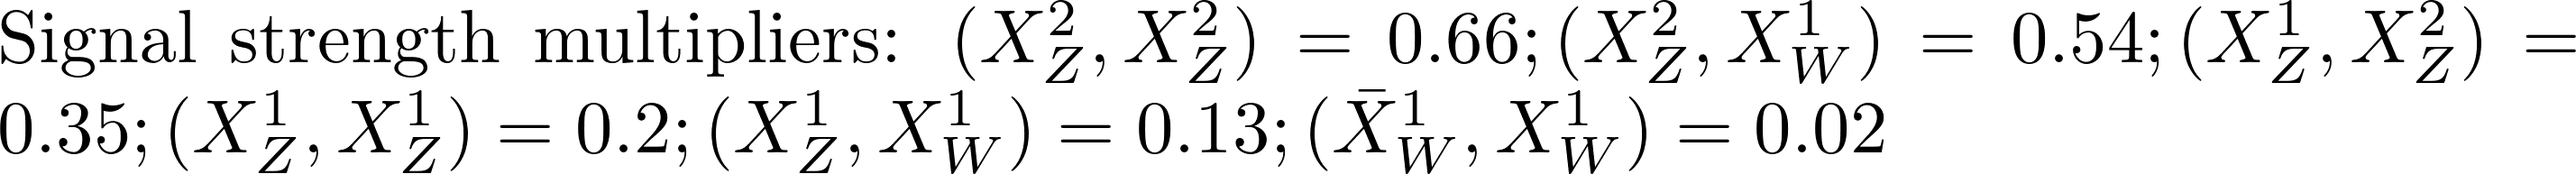
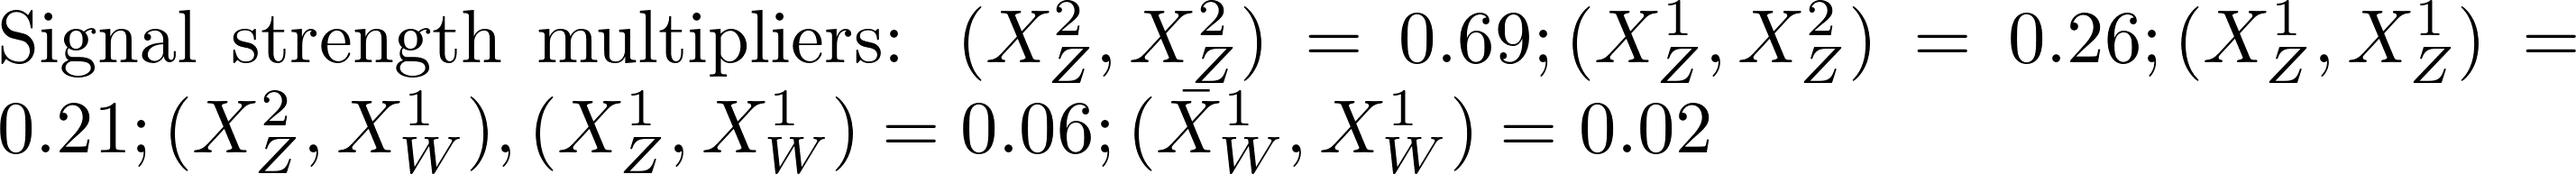
automated update by plotHiscore.py to rundir2_320:     K=5.409 TL=15.08 walkerid=219

diff --git a/protomodels/rundir2_320/rawnumbers.html b/protomodels/rundir2_320/rawnumbers.html
@@ -1,15 +1,20 @@
 <table>
 <tr><th>Analysis Name</th><th>Type</th><th>Dataset</th><th>Topos</th><th>Observed</th><th>Expected</th><th>Approx &sigma;</th><th>Particles</th>
 </tr>
-<tr><td><a href=https://atlas.web.cern.ch/Atlas/GROUPS/PHYSICS/PAPERS/EXOT-2018-06/>ATLAS-EXOT-2018-06</a></td><td>em</td> <td>EM10</td><td>TChiISR, TChiWISRll, TChiWWISRqq, TChiZISRll, TChiZISRqq</td><td>413</td><td>359.00 +/- 10.00</td><td style="text-align:right">2.5 &sigma;</td><td style="text-align:right">X<sup>1</sup><sub>W</sub>, X<sup>2</sup><sub>Z</sub>, X<sup>1</sup><sub>Z</sub></td></tr>
-<tr><td><a href=http://cms-results.web.cern.ch/cms-results/public-results/publications/EXO-20-004/>CMS-EXO-20-004</a></td><td>comb</td> <td>-</td><td>TChiISR, TChiWISRll, TChiWWISRqq, TChiZISRll, TChiZISRqq</td><td> 2e+02 fb </td><td> 2e+02 fb</td><td style="text-align:right">2.4 &sigma;</td><td style="text-align:right">X<sup>1</sup><sub>W</sub>, X<sup>2</sup><sub>Z</sub>, X<sup>1</sup><sub>Z</sub></td></tr>
-<tr><td><a href=http://cms-results.web.cern.ch/cms-results/public-results/publications/SUS-16-039/index.html>CMS-SUS-16-039-agg</a></td><td>comb</td> <td>-</td><td>TChiWZoff</td><td> 2 fb </td><td> 0.8 fb</td><td style="text-align:right">1.9 &sigma;</td><td style="text-align:right">X<sup>1</sup><sub>W</sub>, X<sup>2</sup><sub>Z</sub>, X<sup>1</sup><sub>Z</sub></td></tr>
-<tr><td><a href=http://cms-results.web.cern.ch/cms-results/public-results/publications/SUS-16-048/index.html>CMS-SUS-16-048</a></td><td>comb</td> <td>-</td><td>TChiWZoff</td><td> 1 fb </td><td> 0.9 fb</td><td style="text-align:right">0.3 &sigma;</td><td style="text-align:right">X<sup>2</sup><sub>Z</sub>, X<sup>1</sup><sub>Z</sub></td></tr>
+<tr><td><a href=https://atlas.web.cern.ch/Atlas/GROUPS/PHYSICS/PAPERS/SUSY-2018-16/>ATLAS-SUSY-2018-16-hino</a></td><td>em</td> <td>SR_ewk_2l_med</td><td>TChiZoff</td><td>170</td><td>112.40 +/- 12.60</td><td style="text-align:right">3.3 &sigma;</td><td style="text-align:right">X<sup>2</sup><sub>Z</sub>, X<sup>1</sup><sub>Z</sub></td></tr>
+<tr><td><a href=https://atlas.web.cern.ch/Atlas/GROUPS/PHYSICS/PAPERS/EXOT-2018-06/>ATLAS-EXOT-2018-06</a></td><td>em</td> <td>EM10</td><td>TChiISR, TChiWISRll, TChiWWISRqq, TChiZISRll, TChiZISRqq</td><td>413</td><td>359.00 +/- 10.00</td><td style="text-align:right">2.4 &sigma;</td><td style="text-align:right">X<sup>1</sup><sub>W</sub>, X<sup>2</sup><sub>Z</sub>, X<sup>1</sup><sub>Z</sub></td></tr>
+<tr><td><a href=http://cms-results.web.cern.ch/cms-results/public-results/publications/EXO-20-004/>CMS-EXO-20-004</a></td><td>comb</td> <td>-</td><td>TChiISR, TChiWISRll, TChiWWISRqq, TChiZISRll, TChiZISRqq</td><td> 9e+01 fb </td><td> 7e+01 fb</td><td style="text-align:right">2.2 &sigma;</td><td style="text-align:right">X<sup>1</sup><sub>W</sub>, X<sup>2</sup><sub>Z</sub>, X<sup>1</sup><sub>Z</sub></td></tr>
+<tr><td><a href=http://cms-results.web.cern.ch/cms-results/public-results/publications/SUS-16-039/index.html>CMS-SUS-16-039-agg</a></td><td>comb</td> <td>-</td><td>TChiWZoff</td><td> 2 fb </td><td> 1 fb</td><td style="text-align:right">0.0 &sigma;</td><td style="text-align:right">X<sup>1</sup><sub>W</sub>, X<sup>2</sup><sub>Z</sub>, X<sup>1</sup><sub>Z</sub></td></tr>
 <tr><td><a href=https://atlas.web.cern.ch/Atlas/GROUPS/PHYSICS/PAPERS/SUSY-2013-11/>ATLAS-SUSY-2013-11</a></td><td>em</td> <td>WWa-DF</td><td>TChiWWoff</td><td>70</td><td>73.60 +/- 7.90</td><td style="text-align:right">-0.3 &sigma;</td><td style="text-align:right">X<sup>1</sup><sub>W</sub>, X<sup>1</sup><sub>Z</sub></td></tr>
+<tr><td><a href=http://cms-results.web.cern.ch/cms-results/public-results/publications/SUS-16-048/index.html>CMS-SUS-16-048</a></td><td>comb</td> <td>-</td><td>TChiWZoff</td><td> 2 fb </td><td> 2 fb</td><td style="text-align:right">-0.5 &sigma;</td><td style="text-align:right">X<sup>2</sup><sub>Z</sub>, X<sup>1</sup><sub>Z</sub></td></tr>
 </table>
 <table style='color:grey'>
-<tr><th>Not in Best Combo</th><th>Type</th><th>Dataset</th><th>Topos</th><th>Observed</th><th>Expected</th><th>Approx &sigma;</th><th>Particles</th><tr><td><a href=https://atlas.web.cern.ch/Atlas/GROUPS/PHYSICS/PAPERS/SUSY-2013-02/>ATLAS-SUSY-2013-02</a></td><td>em</td> <td>SR4jlm</td><td>T1</td><td>2169</td><td>2120.00 +/- 110.00</td><td style="text-align:right">0.4 &sigma;</td><td style="text-align:right">X<sup>1</sup><sub>W</sub>, X<sup>1</sup><sub>Z</sub></td></tr>
-<tr><td><a href=https://atlas.web.cern.ch/Atlas/GROUPS/PHYSICS/PAPERS/SUSY-2013-02/>ATLAS-SUSY-2013-02</a></td><td>em</td> <td>SR4jl</td><td>T1</td><td>608</td><td>630.00 +/- 50.00</td><td style="text-align:right">-0.4 &sigma;</td><td style="text-align:right">X<sup>1</sup><sub>W</sub>, X<sup>1</sup><sub>Z</sub></td></tr>
-<tr><td><a href=https://atlas.web.cern.ch/Atlas/GROUPS/PHYSICS/PAPERS/SUSY-2013-02/>ATLAS-SUSY-2013-02</a></td><td>em</td> <td>SR2jl</td><td>T1</td><td>12315</td><td>13000.00 +/- 1000.00</td><td style="text-align:right">-0.7 &sigma;</td><td style="text-align:right">X<sup>1</sup><sub>W</sub>, X<sup>1</sup><sub>Z</sub></td></tr>
-<tr><td><a href=https://atlas.web.cern.ch/Atlas/GROUPS/PHYSICS/PAPERS/SUSY-2013-02/>ATLAS-SUSY-2013-02</a></td><td>em</td> <td>SR2jm</td><td>T1</td><td>715</td><td>760.00 +/- 50.00</td><td style="text-align:right">-0.8 &sigma;</td><td style="text-align:right">X<sup>1</sup><sub>W</sub>, X<sup>1</sup><sub>Z</sub></td></tr>
+<tr><th>Not in Best Combo</th><th>Type</th><th>Dataset</th><th>Topos</th><th>Observed</th><th>Expected</th><th>Approx &sigma;</th><th>Particles</th><tr><td><a href=https://atlas.web.cern.ch/Atlas/GROUPS/PHYSICS/PAPERS/SUSY-2013-02/>ATLAS-SUSY-2013-02</a></td><td>em</td> <td>SR6jl</td><td>T1</td><td>121</td><td>111.00 +/- 11.00</td><td style="text-align:right">0.6 &sigma;</td><td style="text-align:right">X<sup>1</sup><sub>W</sub>, X<sup>2</sup><sub>Z</sub>, X<sup>1</sup><sub>Z</sub></td></tr>
+<tr><td><a href=https://atlas.web.cern.ch/Atlas/GROUPS/PHYSICS/PAPERS/SUSY-2013-02/>ATLAS-SUSY-2013-02</a></td><td>em</td> <td>SR4jlm</td><td>T1</td><td>2169</td><td>2120.00 +/- 110.00</td><td style="text-align:right">0.4 &sigma;</td><td style="text-align:right">X<sup>1</sup><sub>W</sub>, X<sup>2</sup><sub>Z</sub>, X<sup>1</sup><sub>Z</sub></td></tr>
+<tr><td><a href=https://atlas.web.cern.ch/Atlas/GROUPS/PHYSICS/PAPERS/SUSY-2018-05/>ATLAS-SUSY-2018-05-ewk</a></td><td>comb</td> <td>-</td><td>TChiWZoff</td><td> 0.06 fb </td><td> 0.07 fb</td><td style="text-align:right">0.3 &sigma;</td><td style="text-align:right">X<sup>2</sup><sub>Z</sub>, X<sup>1</sup><sub>Z</sub></td></tr>
+<tr><td><a href=https://atlas.web.cern.ch/Atlas/GROUPS/PHYSICS/PAPERS/SUSY-2018-16/>ATLAS-SUSY-2018-16</a></td><td>comb</td> <td>-</td><td>TChiWZoff</td><td> 0.9 fb </td><td> 1 fb</td><td style="text-align:right">0.1 &sigma;</td><td style="text-align:right">X<sup>2</sup><sub>Z</sub>, X<sup>1</sup><sub>Z</sub></td></tr>
+<tr><td><a href=https://atlas.web.cern.ch/Atlas/GROUPS/PHYSICS/PAPERS/SUSY-2013-02/>ATLAS-SUSY-2013-02</a></td><td>em</td> <td>SR4jl</td><td>T1</td><td>608</td><td>630.00 +/- 50.00</td><td style="text-align:right">-0.4 &sigma;</td><td style="text-align:right">X<sup>1</sup><sub>W</sub>, X<sup>2</sup><sub>Z</sub>, X<sup>1</sup><sub>Z</sub></td></tr>
+<tr><td><a href=https://atlas.web.cern.ch/Atlas/GROUPS/PHYSICS/PAPERS/SUSY-2013-02/>ATLAS-SUSY-2013-02</a></td><td>em</td> <td>SR2jl</td><td>T1</td><td>12315</td><td>13000.00 +/- 1000.00</td><td style="text-align:right">-0.7 &sigma;</td><td style="text-align:right">X<sup>1</sup><sub>W</sub>, X<sup>2</sup><sub>Z</sub>, X<sup>1</sup><sub>Z</sub></td></tr>
+<tr><td><a href=https://atlas.web.cern.ch/Atlas/GROUPS/PHYSICS/PAPERS/SUSY-2013-02/>ATLAS-SUSY-2013-02</a></td><td>em</td> <td>SR2jm</td><td>T1</td><td>715</td><td>760.00 +/- 50.00</td><td style="text-align:right">-0.8 &sigma;</td><td style="text-align:right">X<sup>1</sup><sub>W</sub>, X<sup>2</sup><sub>Z</sub>, X<sup>1</sup><sub>Z</sub></td></tr>
+<tr><td><a href=http://cms-results.web.cern.ch/cms-results/public-results/publications/SUS-18-004/index.html>CMS-SUS-18-004-wbplus-agg</a></td><td>comb</td> <td>-</td><td>TChiWZoff</td><td> 0.3 fb </td><td> 0.3 fb</td><td style="text-align:right">-1.1 &sigma;</td><td style="text-align:right">X<sup>2</sup><sub>Z</sub>, X<sup>1</sup><sub>Z</sub></td></tr>
 </table>

diff --git a/protomodels/rundir2_320/index.html b/protomodels/rundir2_320/index.html
@@ -1,27 +1,27 @@
 <html>
 <body>
 <center>
-<table><td><h1>Current best protomodel: <i>K</i>=8.71, <i>TL</i>=18.61</h1><td><img height=60px src=https://smodels.github.io//protomodels/logos/protomodel_lego.png></table>
+<table><td><h1>Current best protomodel: <i>K</i>=5.41, <i>TL</i>=15.08</h1><td><img height=60px src=https://smodels.github.io//protomodels/logos/protomodel_lego.png></table>
 </center>
-<b><a href=./hiscore.slha>ProtoModel</a> <a href=./pmodel.dict>(dict)</a> produced with <a href=https://smodels.github.io//docs/Validation320>database v3.2.0</a>, allowed_extr 0.0 in walker 210 step 523.</b> <br>
+<b><a href=./hiscore.slha>ProtoModel</a> <a href=./pmodel.dict>(dict)</a> produced with <a href=https://smodels.github.io//docs/Validation320>database v3.2.0</a>, allowed_extr 0.0 in walker 219 step 523.</b> <br>
 <table width=80%>
 <tr><td>
-<br><b>Critics:</b> passed both critics<br>
+<br><b>Critics:</b> failed llhd-based critic (robs=4.228, rexp=5.832)<br>
 <br><b>UL Critic: 1/2 analyses exclude</b><br>
-ATLAS-EXOT-2018-06:EM5:: <span style='color: darkred;'>r<sub>obs</sub>=2.132, r<sub>exp</sub>=2.209</span><br>
-CMS-SUS-23-003:ul:: <span style='color: darkgreen;'>r<sub>obs</sub>=0.645, r<sub>exp</sub>=1.237</span><br>
-CMS-EXO-20-004:SR_2018_13:: <span style='color: darkgreen;'>r<sub>obs</sub>=0.457, r<sub>exp</sub>=0.615</span><br>
-<br><b>LLHD Critic:</b> ATLAS-EXOT-2018-06:EM5, CMS-EXO-20-004:matrix.cov, CMS-SUS-16-039-agg:matrix.cov, CMS-SUS-16-048:matrix.cov:: <span style='color: darkred;'>r<sub>obs</sub>=1.49, r<sub>exp</sub>=3.45</span><br>
+ATLAS-EXOT-2018-06:EM5:: <span style='color: darkred;'>r<sub>obs</sub>=1.502, r<sub>exp</sub>=1.556</span><br>
+CMS-EXO-20-004:SR_2018_11:: <span style='color: darkgreen;'>r<sub>obs</sub>=0.378, r<sub>exp</sub>=0.531</span><br>
+CMS-SUS-23-003:ul:: <span style='color: darkgreen;'>r<sub>obs</sub>=0.325, r<sub>exp</sub>=0.364</span><br>
+<br><b>LLHD Critic:</b> ATLAS-SUSY-2018-16-hino:SR_ewk_2l_high, ATLAS-EXOT-2018-06:EM5, CMS-EXO-20-004:matrix.cov:: <span style='color: darkred;'>r<sub>obs</sub>=4.23, r<sub>exp</sub>=5.83</span><br>
 </ul>
-<td><img width=600px src=./texdoc.png?1792666549>
-<br><span style='font-size: smaller; color: darkred;'>Last updated: Thu Oct 22 12:55:49 2026</span>
-<br><br><b>7 predictions available. Highest r values are:</b><br><ul>
-<li><a href=https://atlas.web.cern.ch/Atlas/GROUPS/PHYSICS/PAPERS/EXOT-2018-06/>ATLAS-EXOT-2018-06</a>:EM5:TChiZISRqq,TChiISR,TChiWWISRqq,TChiWISRll,TChiZISRll r=2.13, r<sub>exp</sub>=2.21<br>
-<li><a href=https://cms-results.web.cern.ch/cms-results/public-results/publications/SUS-23-003/index.html>CMS-SUS-23-003</a>:ul:TChiWWoff r=0.65, r<sub>exp</sub>=1.24<br>
-<li><a href=http://cms-results.web.cern.ch/cms-results/public-results/publications/EXO-20-004/>CMS-EXO-20-004</a>:SR_2018_13:TChiZISRqq,TChiISR,TChiWWISRqq,TChiWISRll,TChiZISRll r=0.46, r<sub>exp</sub>=0.61<br>
-<li><a href=http://cms-results.web.cern.ch/cms-results/public-results/publications/SUS-16-048/index.html>CMS-SUS-16-048</a>:Ewkino_lowMET_M_10to20:TChiWZoff r=0.22, r<sub>exp</sub>=0.29<br>
+<td><img width=600px src=./texdoc.png?1792675670>
+<br><span style='font-size: smaller; color: darkred;'>Last updated: Thu Oct 22 15:27:50 2026</span>
+<br><br><b>12 predictions available. Highest r values are:</b><br><ul>
+<li><a href=https://atlas.web.cern.ch/Atlas/GROUPS/PHYSICS/PAPERS/EXOT-2018-06/>ATLAS-EXOT-2018-06</a>:EM5:TChiISR,TChiZISRqq,TChiWISRll,TChiWWISRqq,TChiZISRll r=1.50, r<sub>exp</sub>=1.56<br>
+<li><a href=http://cms-results.web.cern.ch/cms-results/public-results/publications/EXO-20-004/>CMS-EXO-20-004</a>:SR_2018_11:TChiISR,TChiZISRqq,TChiWISRll,TChiWWISRqq,TChiZISRll r=0.38, r<sub>exp</sub>=0.53<br>
+<li><a href=https://cms-results.web.cern.ch/cms-results/public-results/publications/SUS-23-003/index.html>CMS-SUS-23-003</a>:ul:TChiWZoff r=0.32, r<sub>exp</sub>=0.36<br>
+<li><a href=https://cms-results.web.cern.ch/cms-results/public-results/publications/SUS-23-003/index.html>CMS-SUS-23-003</a>:ul:TChiWWoff r=0.32, r<sub>exp</sub>=0.77<br>
 </table><table style="width:80%">
-<td width=40%><img height=450px src=./mass_hierarchy.png?1792666549><td width=60%><font size=-3><iframe type="text/html" height="350px" width="100%" frameborder="0" src="./rawnumbers.html?1792666549"></iframe></font>
+<td width=40%><img height=450px src=./mass_hierarchy.png?1792675670><td width=60%><font size=-3><iframe type="text/html" height="350px" width="100%" frameborder="0" src="./rawnumbers.html?1792675670"></iframe></font>
 </table>
 </body>
 </html>
